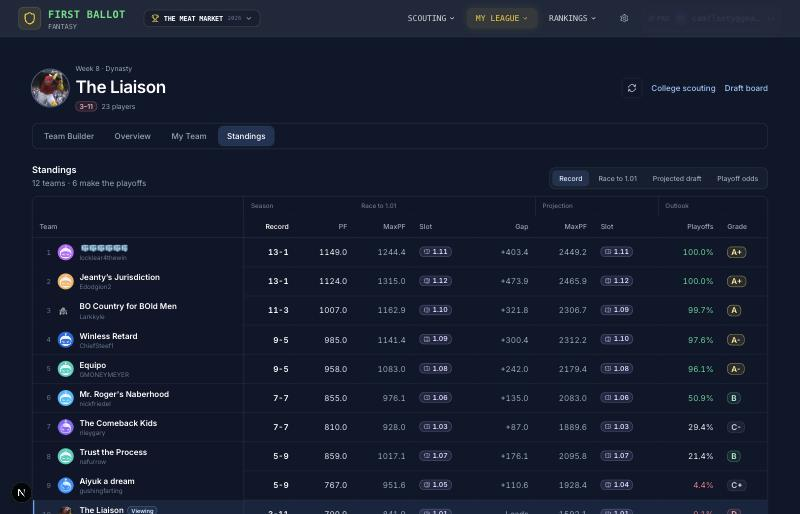
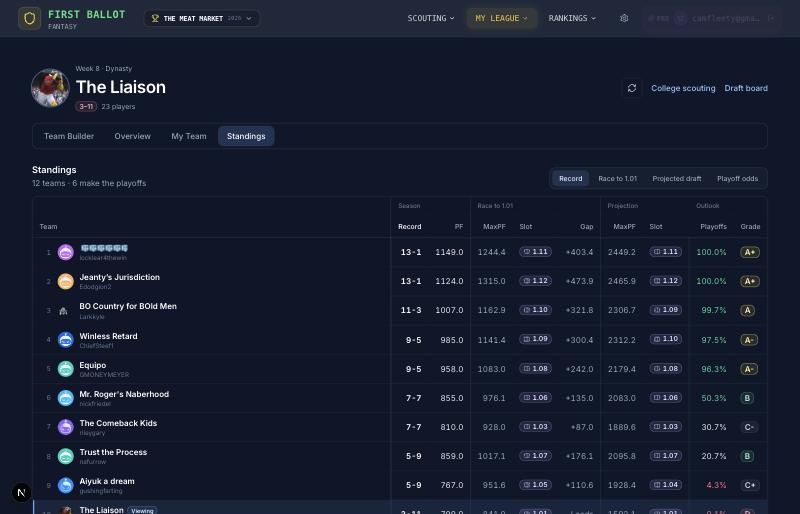
Standings: content-width number columns and group dividers

diff --git a/firstballot/components/league-buddy/LeagueStandingsSection.tsx b/firstballot/components/league-buddy/LeagueStandingsSection.tsx
@@ -97,11 +97,19 @@ export function LeagueStandingsSection({
     odds: 'odds',
   }
   const active = columnFor[sort]
+  // The first column of each group carries a divider, so the groups read in the body too.
+  const groupStart = isDynasty ? ['record', 'maxpf', 'projected', 'odds'] : []
+  const divider = (column: string) => groupStart.includes(column) && 'border-l border-line/60'
   const head = (column: string) =>
-    cn('h-10 whitespace-nowrap px-3 text-xs', active === column ? 'text-white' : 'text-slate-400')
+    cn(
+      'h-10 whitespace-nowrap px-3 text-xs',
+      divider(column),
+      active === column ? 'text-white' : 'text-slate-400'
+    )
   const cell = (column: string, secondary = false) =>
     cn(
       'whitespace-nowrap px-3 py-2.5 text-sm',
+      divider(column),
       active === column
         ? 'font-semibold text-white'
         : secondary
@@ -156,7 +164,7 @@ export function LeagueStandingsSection({
             </TableRow>
           )}
           <TableRow className="hover:bg-transparent">
-            <TableHead sticky className={cn(head('team'), 'w-44 sm:w-auto sm:min-w-56')}>
+            <TableHead sticky className={cn(head('team'), 'w-44 sm:w-full sm:min-w-56')}>
               Team
             </TableHead>
             <TableHead numeric className={head('record')}>

diff --git a/docs/design-system/FOUNDATIONS_REVIEW.md b/docs/design-system/FOUNDATIONS_REVIEW.md
@@ -41,7 +41,7 @@ Screenshots were taken at 1400×900 and 375×812 with the same league and sessio
 | One meaning per color | Grade gold/green/rose, picks violet, selection blue, odds positive/negative | Amber still appears on A grades and on value, both "meaningful tier/value" per decision 1 |
 | Images carry identity | Owner avatars | The map's player faces have no team-level equivalent; avatars are the closest |
 | Tight slate ramp, quiet secondary text | White / slate-200 / slate-400 / slate-500 | — |
-| Density | 12 rows fit at 1400×900 with owner names | Extra width spreads between Slot and Gap; fixed column widths would tighten it |
+| Density | 12 rows fit at 1400×900 with owner names. Number columns shrink to content and the team column takes the slack; each group starts with a divider | — |
 
 **Team Builder after the font change:** the layout, cards, truncation and badges are unchanged; only the glyphs differ (Inter vs SF). Compare `after/team-builder-desktop.jpg` with `before/team-builder-desktop.jpg`.
 
@@ -53,5 +53,4 @@ Screenshots were taken at 1400×900 and 375×812 with the same league and sessio
 ## Before migrating the next surface
 
 1. Decide whether the Map's builder summary bar (`2027 picks` row) should switch to `PickChip` now, or wait for the Picks tab.
-2. Fixed column widths for Standings, if the extra space bothers you at wide screens.
-3. Next surface by impact: **Overview** (P1/P2), then the new **Picks tab** (P4).
+2. Next surface by impact: **Overview** (P1/P2), then the new **Picks tab** (P4).
